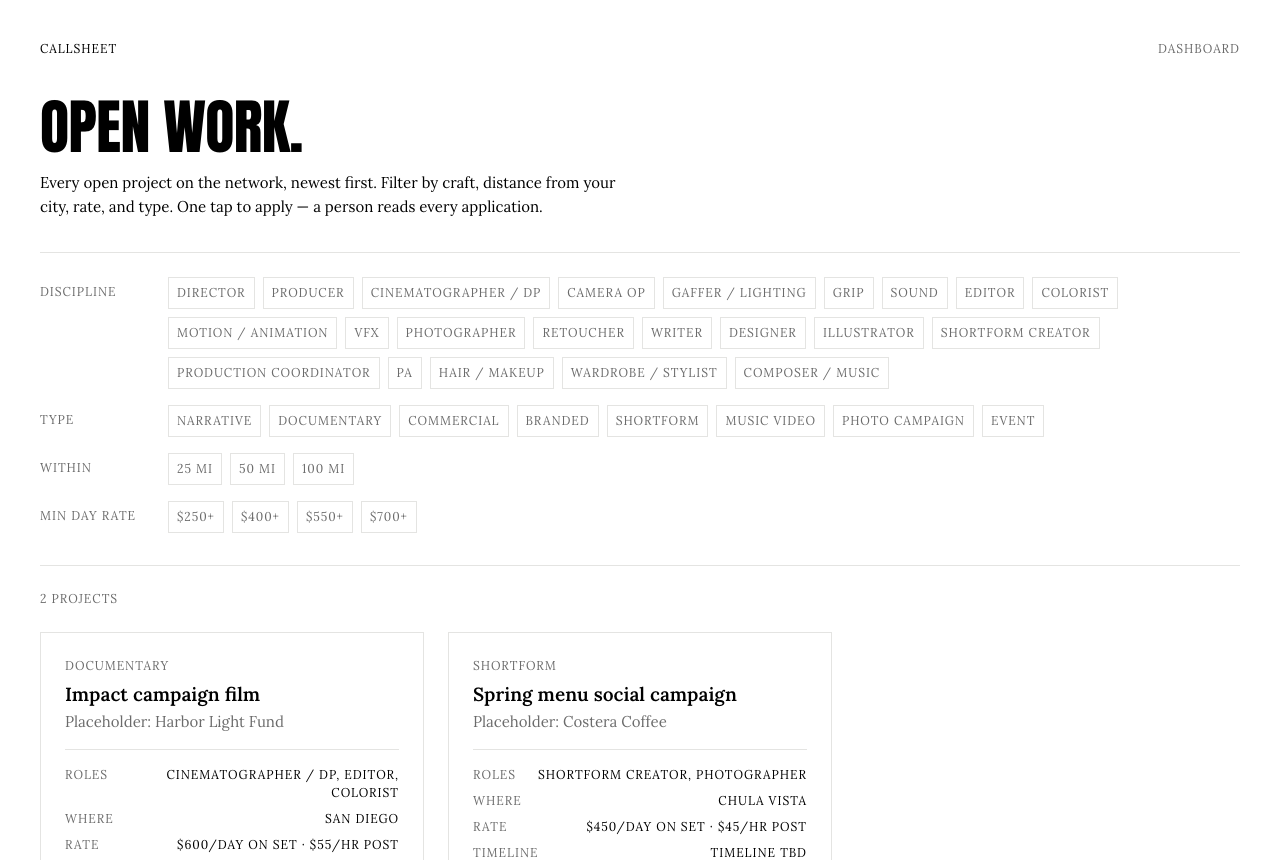
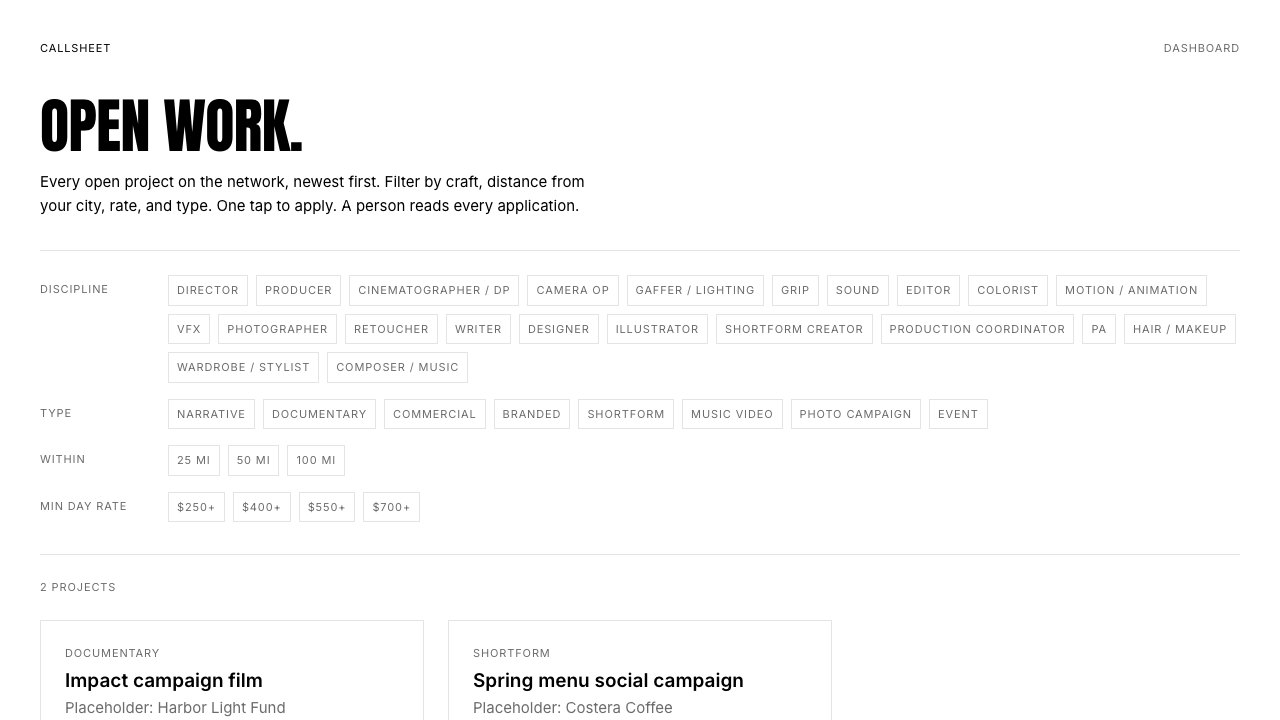
style: sans-serif only — Inter (helvetica lineage) replaces the serif; hero re-shot

diff --git a/app/globals.css b/app/globals.css
@@ -15,11 +15,13 @@
   --color-frame: #0a0a0a;
   --color-error: #b23b2e;
 
-  /* Two voices only (owner's call, 2026-08-01): Anton for statements,
-   * Lora serif for everything else. Monospace is retired. */
+  /* Two voices only (owner's call, 2026-08-01, revised 9:06 PM): Anton for
+   * statements, Helvetica-lineage sans (Inter) for everything else.
+   * Monospace is retired. --font-serif aliases to the sans so existing
+   * font-serif utility classes resolve without a sweep. */
   --font-display: var(--font-anton);
-  --font-sans: var(--font-lora);
-  --font-serif: var(--font-lora);
+  --font-sans: var(--font-inter);
+  --font-serif: var(--font-inter);
 
   --radius-none: 0px;
   --radius-sm: 0px;
@@ -59,17 +61,17 @@ body {
   text-transform: uppercase;
 }
 
-/* Metadata voice: facts are serif caps now — tracked, quiet, editorial. */
+/* Metadata voice: sans caps — tracked, quiet, call-sheet plain. */
 .fact {
-  font-family: var(--font-serif);
-  font-size: 12px;
+  font-family: var(--font-sans);
+  font-size: 11px;
   letter-spacing: 0.08em;
   text-transform: uppercase;
 }
 
 .fact-secondary {
-  font-family: var(--font-serif);
-  font-size: 12px;
+  font-family: var(--font-sans);
+  font-size: 11px;
   letter-spacing: 0.08em;
   text-transform: uppercase;
   color: var(--color-secondary);

diff --git a/app/layout.tsx b/app/layout.tsx
@@ -1,5 +1,5 @@
 import type { Metadata } from "next";
-import { Anton, Lora } from "next/font/google";
+import { Anton, Inter } from "next/font/google";
 import "./globals.css";
 
 const anton = Anton({
@@ -8,9 +8,9 @@ const anton = Anton({
   variable: "--font-anton",
 });
 
-const lora = Lora({
+const inter = Inter({
   subsets: ["latin"],
-  variable: "--font-lora",
+  variable: "--font-inter",
 });
 
 export const metadata: Metadata = {
@@ -27,7 +27,7 @@ export default function RootLayout({
   return (
     <html
       lang="en"
-      className={`${anton.variable} ${lora.variable} h-full antialiased`}
+      className={`${anton.variable} ${inter.variable} h-full antialiased`}
     >
       <body className="min-h-full flex flex-col">{children}</body>
     </html>

diff --git a/app/page.tsx b/app/page.tsx
@@ -61,7 +61,7 @@ export default function Home() {
               src="/dashboard-talent.png"
               alt="The dashboard a creative sees: matched jobs, profile, applications"
               width={1280}
-              height={860}
+              height={720}
               priority
               className="w-full"
             />
